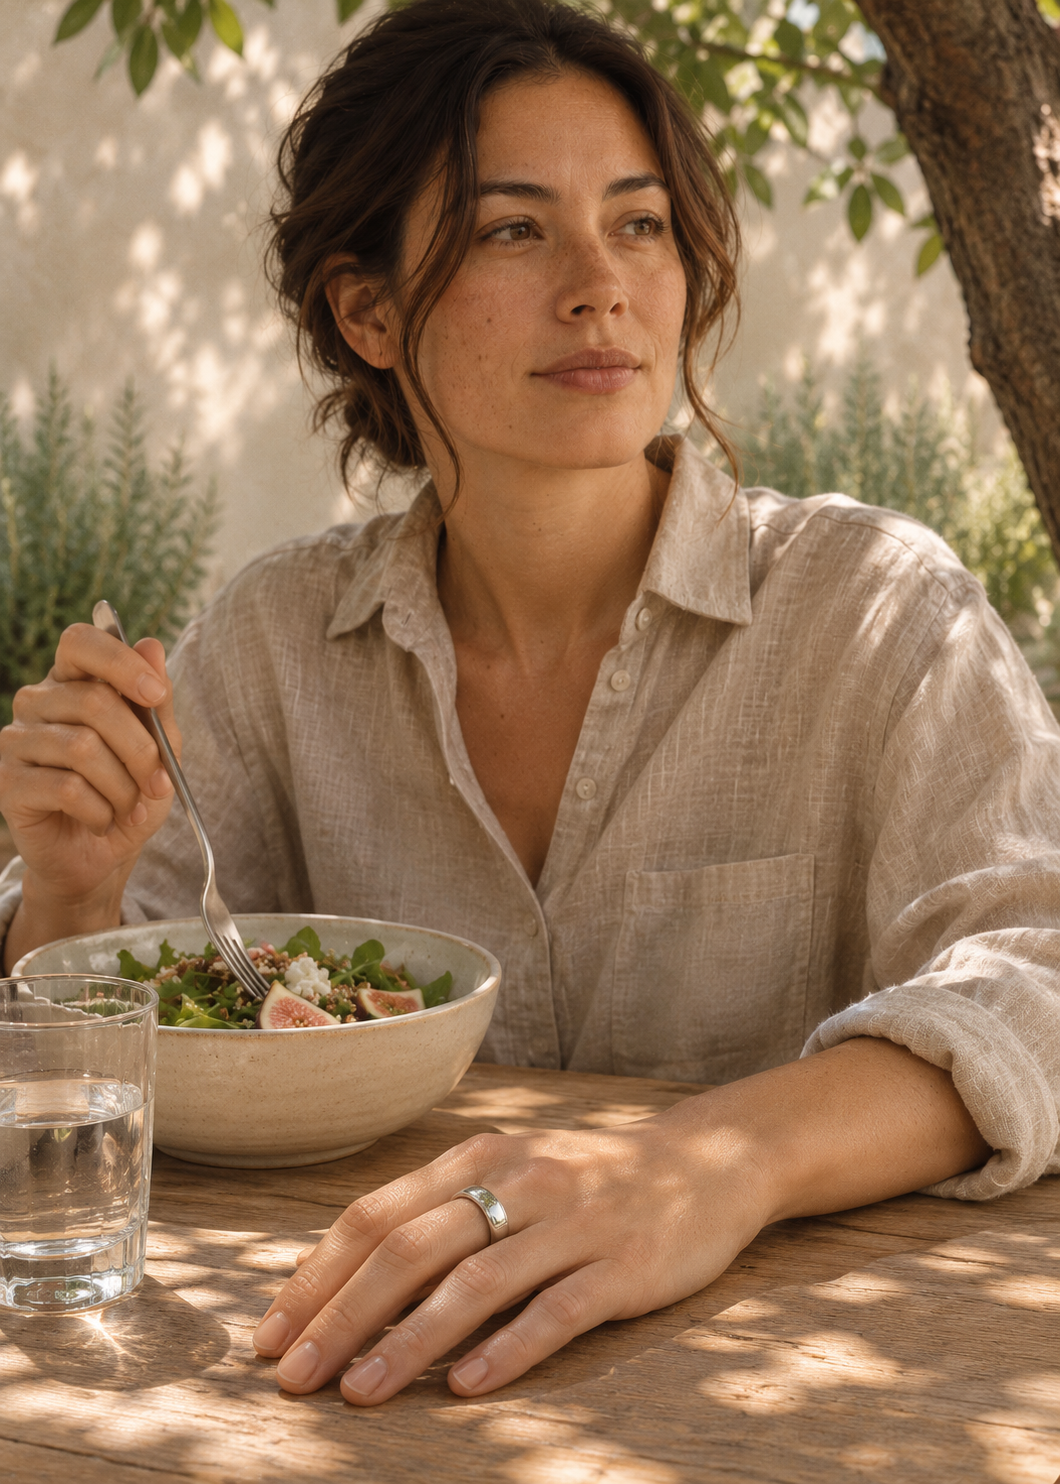
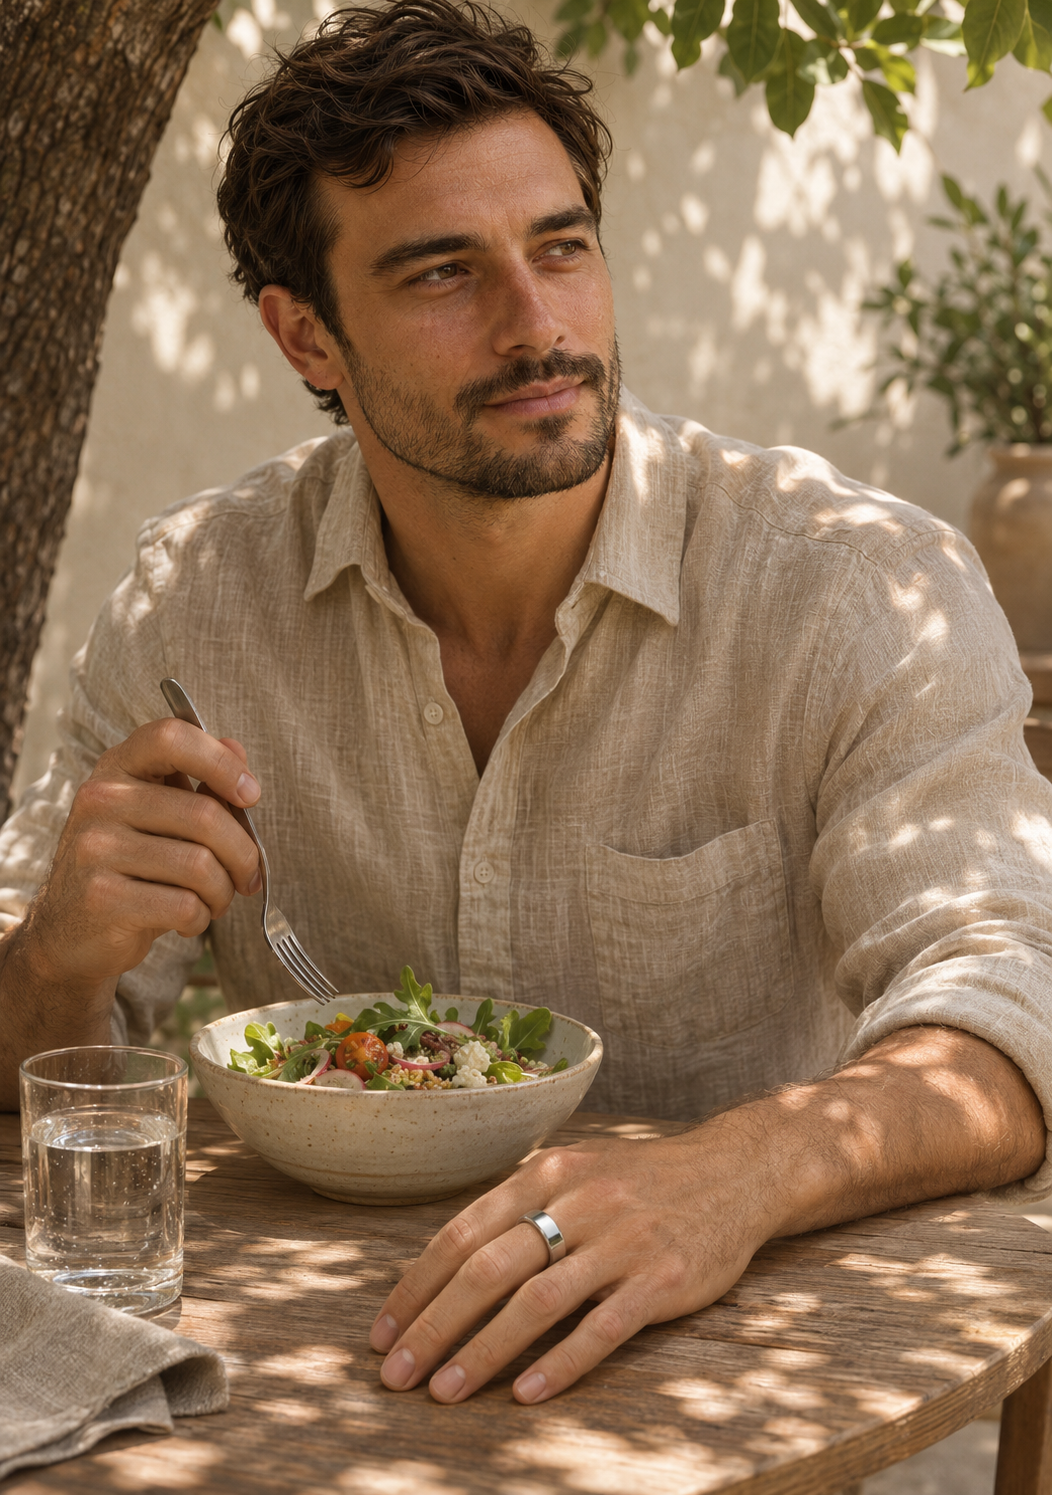
feat(assets): replace character with male C-02 (D-058)
- New character master C-02 and regenerated Sleep (S2p-*) and
  Activity and rest (S3p-*) images under the same file names
- Female C-01 images moved to _archive/character-female-c01/
- D-058 recorded; D-055 marked as superseded
- Generation script people-c02.sh; asset log updated

diff --git a/context/decisions.md b/context/decisions.md
@@ -1,6 +1,6 @@
 # Catatan keputusan proyek
 
-Diperbarui: 18 November 2026 (termasuk D-022 sampai D-057).
+Diperbarui: 18 November 2026 (termasuk D-022 sampai D-058).
 
 ## Status
 
@@ -83,9 +83,10 @@ Sumber: pesan pengguna kepada Visual Director, 17 November 2026: “arah visual 
 | D-034 | Regenerasi diawali 3 sampel uji (hero pagi, produk Silver Daylight, gambar bayangan). Sisa aset dibuat setelah tone sampel disetujui. | Pilihan pengguna “Uji 3 dulu”, 17 November 2026. |
 | D-035 | Set dasar semua aset Versi 1 adalah **N2-02 “moss rock studio”** (`design/assets/v1/nature-test/N2-02-moss-rock-studio.png`): batu granit pucat di atas hamparan lumut, pakis blur di latar depan, dinding plaster krem hangat dengan bayangan daun dari sinar matahari. Waktu 06:40 → 23:00 ditunjukkan melalui sudut dan warna bayangan daun, lalu ditutup dengan cahaya biru malam. Revisi D-033: hamparan lumut dan pakis blur di tepi latar depan diperbolehkan; ring melayang, gradasi latar, batang berlumut sebagai panggung, dan tumpukan batu tetap dilarang. Sampel batu kering (`N-*`) dan `N2-01` tidak dipakai. | Pengguna: “Saya suka N2-02-moss-rock-studio”, 17 November 2026, setelah membandingkan dua sampel lumut dengan rekomendasi Visual Director untuk N2-02. |
 | D-054 | Gambar section **Activity and rest** menampilkan **karakter yang memakai ring** dalam adegan sesuai jam dan aktivitasnya (07:40 jalan, 09:00 fokus, 10:30 peregangan, 12:30 makan siang, 15:30 tangga dan keperluan). Lokasi boleh interior atau luar ruang dan tidak harus memakai set batu; tone hangat tetap sama. Untuk section ini, D-035 (set batu, tanpa tangan) tidak berlaku. Wajah karakter **boleh terlihat** (pengguna, 18 November 2026: “Wajah boleh terlihat”), menggantikan usulan awal Visual Director untuk menyembunyikan wajah. Ring tetap harus menjadi fokus yang jelas. | Permintaan pengguna, 18 November 2026: “memberikan karakter yang menggunakan cincin, atau close up ketika cincin digunakan … tidak harus ada environment batunya, bisa di interior”. Dimulai dengan 5 sampel. Section lain belum diputuskan. |
-| D-055 | Karakter `design/assets/v1/masters/C-01-character.png` (perempuan awal 30-an, rambut cokelat gelap diikat longgar, kemeja linen oatmeal, ring di telunjuk kiri) disetujui sebagai karakter tetap seri gambar Stillway. | Pengguna, 18 November 2026: “Cocok, karena konsisten” dan “Karakternya setuju”. Penerapan karakter ke section selain Activity and rest masih perlu dikonfirmasi. |
+| D-055 | Karakter `design/assets/v1/masters/C-01-character.png` (perempuan awal 30-an, rambut cokelat gelap diikat longgar, kemeja linen oatmeal, ring di telunjuk kiri) disetujui sebagai karakter tetap seri gambar Stillway. | Pengguna, 18 November 2026: “Cocok, karena konsisten” dan “Karakternya setuju”. Penerapan karakter ke section selain Activity and rest masih perlu dikonfirmasi. **Digantikan D-058.** |
 | D-056 | Karakter C-01 juga dipakai di section **Sleep / “Last night”** (slot “Last night, in one view.” dan “Patterns, not scores.”). Section **“Made to be forgotten”** tidak memakai karakter; gambar ring yang sudah ada di website tetap dipakai untuk menonjolkan bentuk ring. | Pengguna, 18 November 2026: “lanjut untuk generate image untuk section ‘Last night’, untuk section ‘Made to be forgotten’ lebih menonjolkan bentuk cincinnya aja, jadi bisa pakai yang existing di website”. |
 | D-057 | Developer memasang gambar karakter C-01 di website sesuai D-054–D-056: section Sleep/Rhythm memakai `S2p-01-last-night.png` (Last night, in one view.) dan `S2p-02-patterns.png` (Patterns, not scores.); strip Activity and rest memakai `S3p-0740`, `S3p-0900`, `S3p-1030`, `S3p-1230`, `S3p-1530` sesuai jam di label (07:40 walk, 09:00 focus, 10:30 stretch, 12:30 lunch, 15:30 stairs). Slot foto di Rhythm diubah ke rasio 4:5 agar sesuai gambar portrait. Gambar batu lama tidak dipakai lagi di dua section ini. | Permintaan pengguna, 18 November 2026: “Pakai S2p-01 dan S2p-02 di section Sleep, lalu S3p-0740 sampai S3p-1530 di Activity and rest, sesuai jam masing-masing.” |
+| D-058 | Karakter seri gambar diganti menjadi **laki-laki**: `design/assets/v1/masters/C-02-character.png` (awal–pertengahan 30-an, rambut cokelat gelap pendek, janggut pendek rapi, kemeja linen oatmeal, ring di telunjuk kiri). Ini **menggantikan D-055** (karakter C-01 perempuan). Gambar Sleep (`S2p-*`) dan Activity and rest (`S3p-*`) dibuat ulang dengan C-02 memakai nama file yang sama, sehingga impor di `web/` tidak perlu diubah. Gambar C-01 dipindah ke `design/assets/v1/_archive/character-female-c01/`. | Pengguna, 18 November 2026: “Atasan saya meminta karakternya diganti menjadi laki-laki … gambar karakter perempuan yang terlanjur dibuat bisa kamu masukkan ke archive”. Detail rupa C-02 adalah usulan Visual Director. |
 
 ## Persetujuan build Home Versi 1
 

diff --git a/design/assets/v1/README.md b/design/assets/v1/README.md
@@ -71,6 +71,8 @@ Sistem visual Activity and rest: **Moving = ring berdiri**, **Resting = ring ber
 
 ## Activity and rest dengan karakter — sampel (18 November 2026, D-054)
 
+> **Digantikan D-058 (karakter laki-laki C-02).** File C-01 di bagian ini sudah dipindah ke `_archive/character-female-c01/`; nama file yang sama di `home/` kini berisi versi C-02.
+
 Prompt tercatat di `scripts/s3-people.sh`. Karakter dikunci lewat `masters/C-01-character.png`: perempuan awal 30-an berkemeja linen oatmeal dengan ring di telunjuk kiri. Karakter ini **ilustratif dan belum disetujui**. Wajah boleh terlihat. Status: **AI-generated, sampel, belum di-retouch.** Set batu `S3-*` sebelumnya tetap disimpan sebagai alternatif.
 
 | Slot | File | Adegan | Catatan |
@@ -83,6 +85,8 @@ Prompt tercatat di `scripts/s3-people.sh`. Karakter dikunci lewat `masters/C-01-
 
 ## Sleep / “Last night” dengan karakter (18 November 2026, D-056)
 
+> **Digantikan D-058 (karakter laki-laki C-02).** File C-01 di bagian ini sudah dipindah ke `_archive/character-female-c01/`; nama file yang sama di `home/` kini berisi versi C-02.
+
 Prompt tercatat di `scripts/s2-people.sh`. Karakter C-01 (D-055). Status: **AI-generated, belum di-retouch.** Tangan sudah diperiksa dengan crop resolusi penuh. Versi set batu `S2-*` tetap disimpan sebagai alternatif.
 
 | Slot | File | Adegan | Catatan |
@@ -91,3 +95,18 @@ Prompt tercatat di `scripts/s2-people.sh`. Karakter C-01 (D-055). Status: **AI-g
 | “Patterns, not scores.” | `home/S2p-02-patterns.png` (4:5) | Duduk bersila di sofa dekat jendela, memegang cangkir teh dengan dua tangan, memandang keluar; tanpa ponsel dan tanpa angka | Ring di telunjuk kiri; genggaman kedua tangan wajar. |
 
 **Made to be forgotten:** tetap memakai gambar ring yang sudah ada di website (D-056); tidak ada aset baru.
+
+## Karakter laki-laki C-02 (18 November 2026, D-058)
+
+Menggantikan C-01. Prompt tercatat di `scripts/people-c02.sh`; script C-01 lama hanya disimpan sebagai riwayat. Nama file sama dengan sebelumnya, sehingga impor di `web/src/components/Rhythm.astro` dan `Daylight.astro` tidak perlu diubah. Status: **AI-generated, belum di-retouch.** Setiap tangan sudah diperiksa dengan crop resolusi penuh.
+
+| Slot | File | Adegan | Pemeriksaan tangan |
+| --- | --- | --- | --- |
+| Karakter | `masters/C-02-character.png` | Laki-laki awal–pertengahan 30-an, rambut cokelat gelap, janggut pendek, kemeja linen oatmeal | Ring di telunjuk kiri. |
+| Last night, in one view. | `home/S2p-01-last-night.png` | Baru bangun, tangan kiri di atas selimut | 5 digit, ring di telunjuk. |
+| Patterns, not scores. | `home/S2p-02-patterns.png` | Duduk di sofa dekat jendela memegang cangkir teh | Genggaman dua tangan wajar. |
+| 07:40 Moving, walk | `home/S3p-0740-moving-walk.png` | Jalan pagi di jalur berpohon | 5 digit. |
+| 09:00 Resting, focus | `home/S3p-0900-resting-focus.png` | Membaca, tangan kiri di atas buku | 5 digit. |
+| 10:30 Moving, stretch | `home/S3p-1030-moving-stretch.png` | Kedua lengan meregang ke depan | Tangan kiri 5 digit; jari kelingking kanan terpotong tepi frame (wajar). |
+| 12:30 Resting, lunch | `home/S3p-1230-resting-lunch.png` | Makan salad di bawah pohon | Ibu jari kiri tersembunyi di bawah tangan (wajar). |
+| 15:30 Moving, stairs | `home/S3p-1530-moving-stairs.png` | Naik tangga, tangan kiri menggenggam pegangan, tote di bahu | Ibu jari terlihat melingkari pegangan. |
